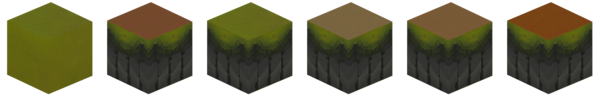
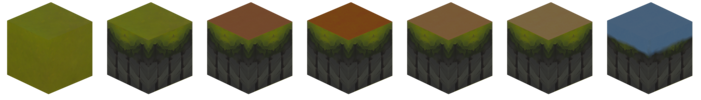
feat: added collision layer

diff --git a/scripts/blender/replace_scene.py b/scripts/blender/replace_scene.py
@@ -16,6 +16,7 @@ textures = [
   "dust_uv_1.png",
   "dust_uv_2.png",
   "dust_uv_3.png",
+  "water_uv.png",
 ]
 
 i = 1
